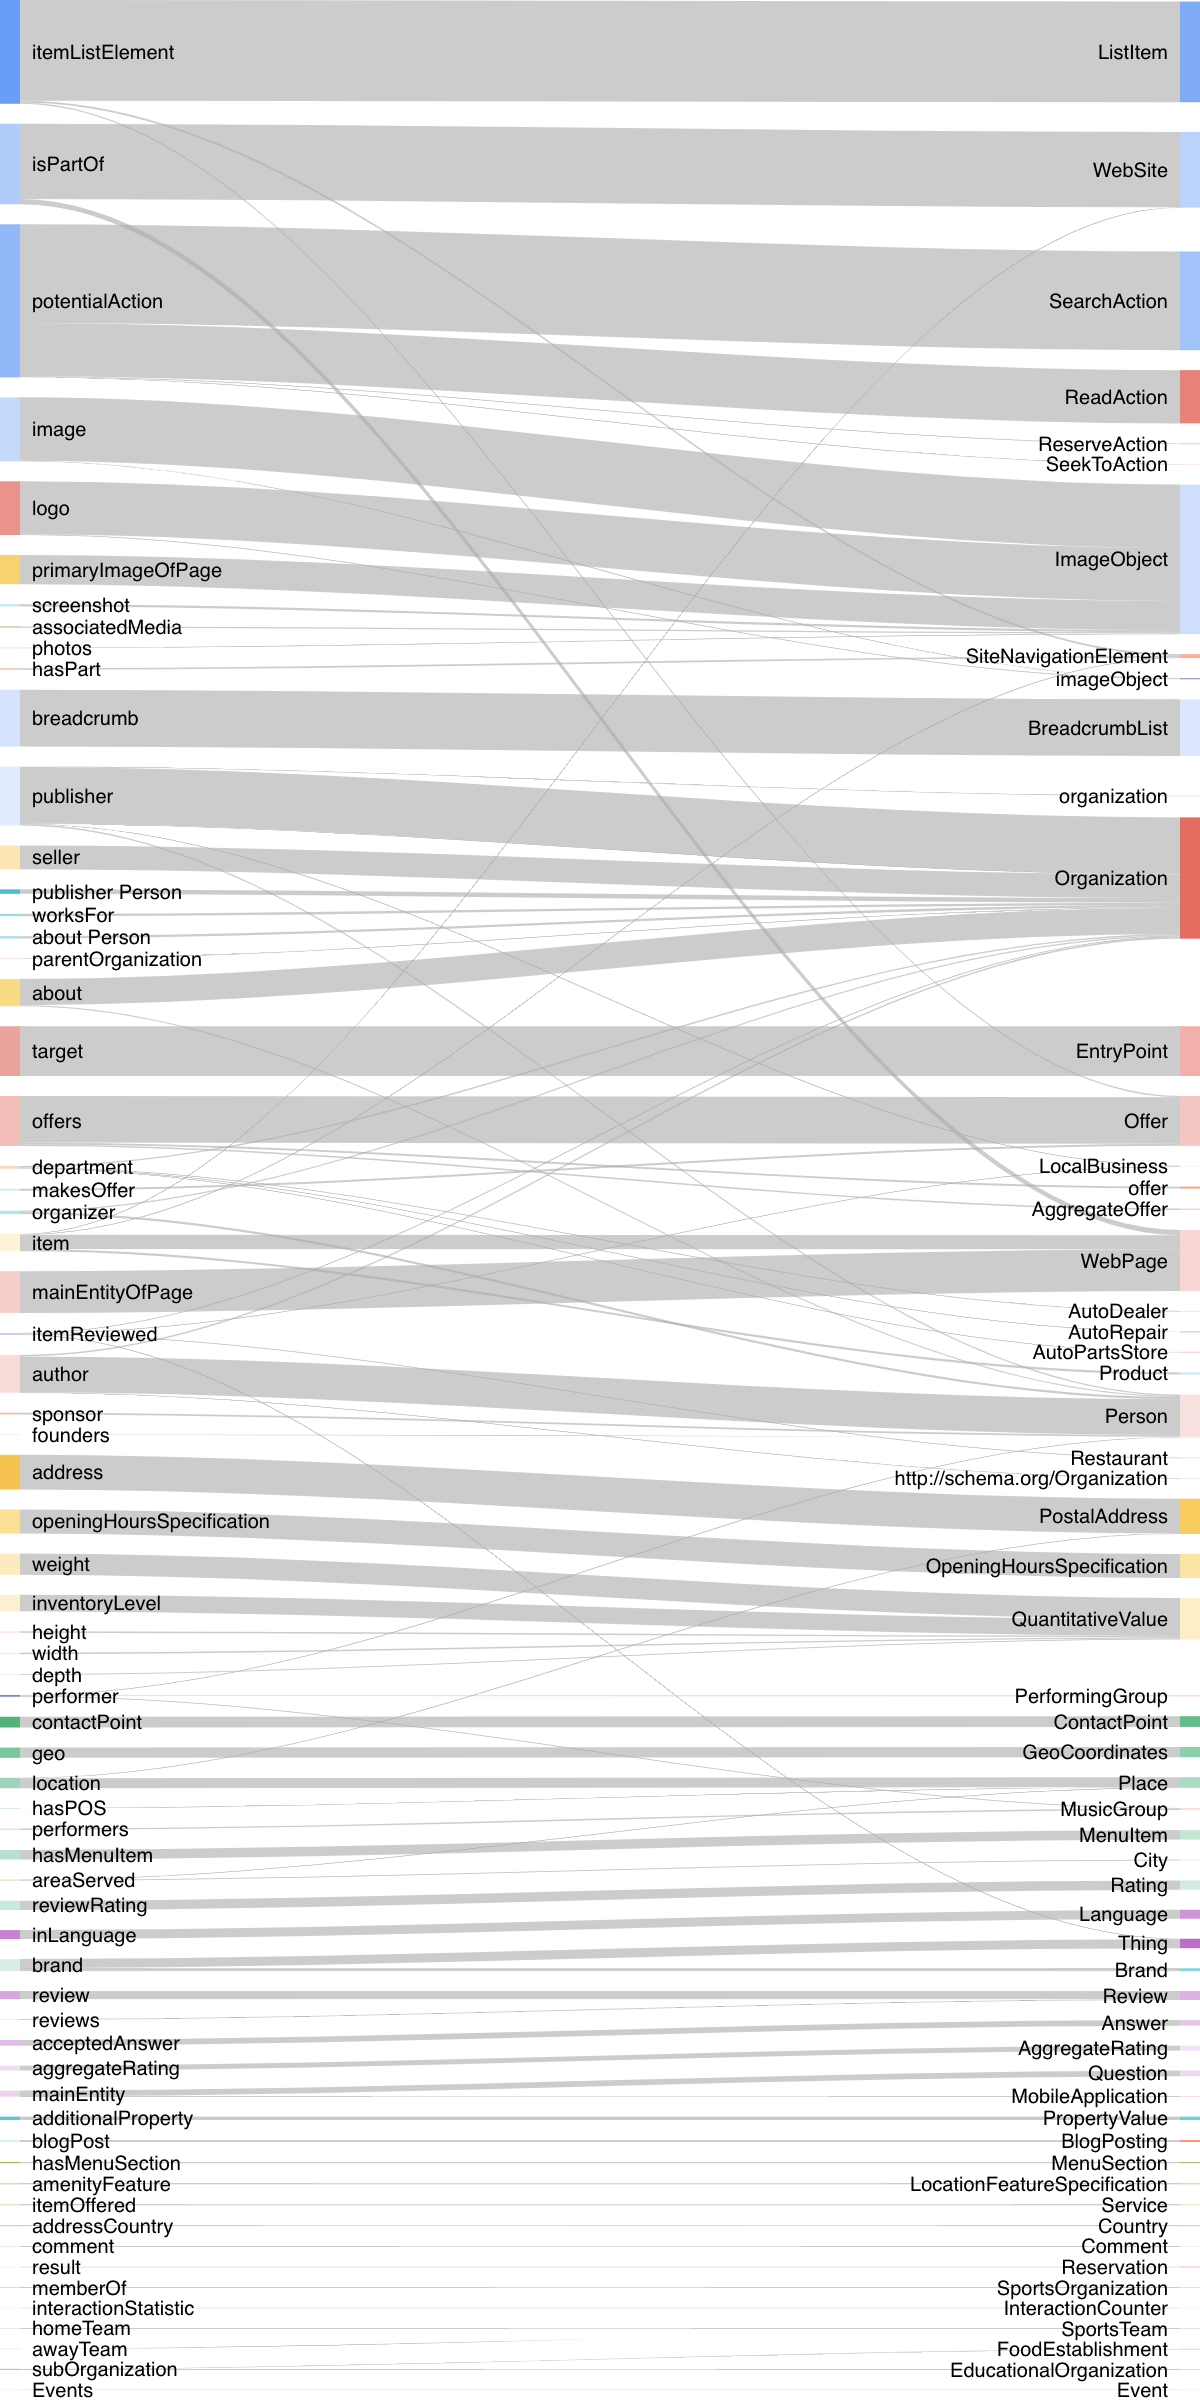
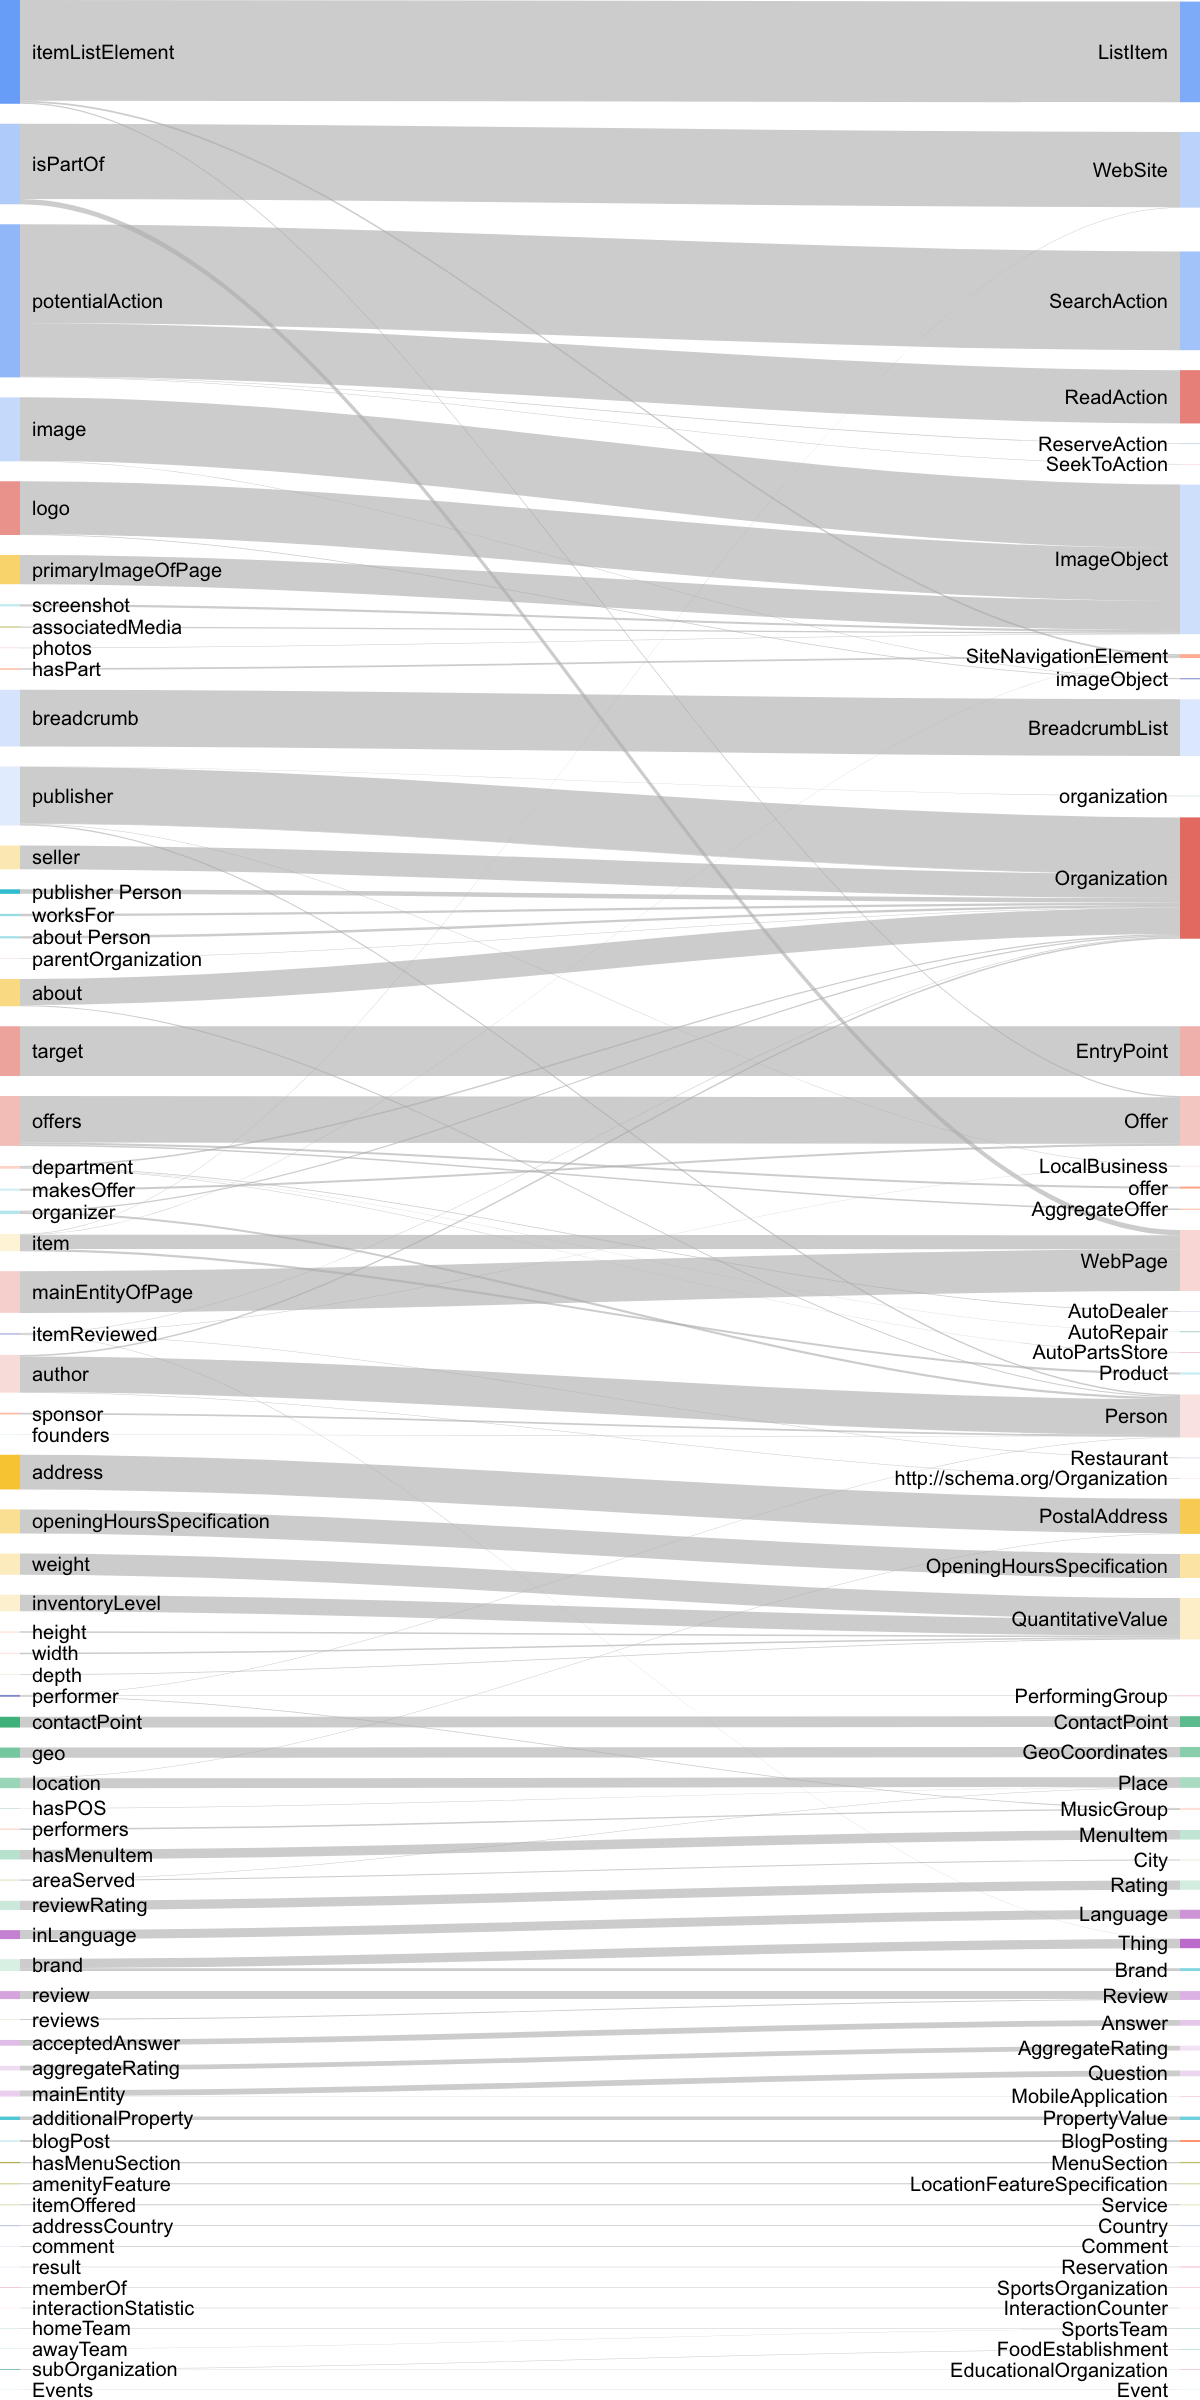
Width

Changed region(s): [[0.0308, 0.25, 0.0617, 0.2812], [0.0, 0.5938, 0.0308, 0.625]]

diff --git a/src/templates/en/2022/embeds/structured-data-relationships-sankey.html b/src/templates/en/2022/embeds/structured-data-relationships-sankey.html
@@ -7,8 +7,7 @@
 {% set metadata = {"authors":["cyberandy"]} %}
 
 {% block main %}
-<div id="sankey_multiple" style="width: 900px; height: 1500px;"></div>
-
+<div id="sankey_multiple"></div>
 
 <script nonce="{{ csp_nonce() }}" src="https://www.gstatic.com/charts/loader.js"></script>
 <script nonce="{{ csp_nonce() }}">
@@ -127,19 +126,19 @@
     var options = {
       width: 600,
       height: 1500,
-            sankey: {
-    node: {
-      colors: colors,
-      label: {fontName: 'Arial',
-              color: '#1a2b49'},
-    },
-    interactivity: true, // Allows you to select nodes.
-    labelPadding: 6,     // Horizontal distance between the label and the node.
-    nodePadding: 20,     // Vertical distance between nodes.
-    link: {
-      colors: colors
-    }
-  }
+      sankey: {
+        node: {
+          colors: colors,
+          label: {fontName: 'Arial',
+                  color: '#1a2b49'},
+        },
+        interactivity: true, // Allows you to select nodes.
+        labelPadding: 6,     // Horizontal distance between the label and the node.
+        nodePadding: 20,     // Vertical distance between nodes.
+        link: {
+          colors: colors
+        }
+      }
     };
 
     // Instantiates and draws our chart, passing in some options.

diff --git a/src/templates/en/2022/embeds/structured-data-sankey.html b/src/templates/en/2022/embeds/structured-data-sankey.html
@@ -9,7 +9,6 @@
 {% block main %}
 <div id="sankey_basic"></div>
 
-
 <script nonce="{{ csp_nonce() }}" src="https://www.gstatic.com/charts/loader.js"></script>
 <script nonce="{{ csp_nonce() }}">
   google.charts.load('current', {'packages':['sankey']});

diff --git a/src/templates/base/embed.html b/src/templates/base/embed.html
@@ -9,6 +9,7 @@
 {{ super() }}
 <style nonce="{{ csp_nonce() }}">
   main {
+    width: 600px;
     max-width: 100%;
     overflow: scroll;
   }
